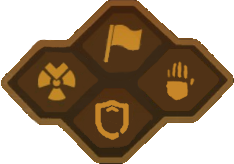
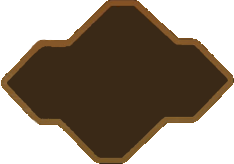
seperating buttons

diff --git a/dxhacking/js/createIcons.js b/dxhacking/js/createIcons.js
@@ -11,20 +11,85 @@ function showControls() {
     var y = event.clientY;
     if (!document.getElementById("hackingControls")) {
         var hackingControls = document.createElement('IMG');
+        var hackingBtnCapture = document.createElement("INPUT");
+        var hackingBtnDefend = document.createElement("INPUT");
+        var hackingBtnNuke = document.createElement("INPUT");
+        var hackingBtnStop = document.createElement("INPUT");
+
         hackingControls.setAttribute("style", "position:absolute;");
         hackingControls.setAttribute("src", "images/hackingControls.png");
         hackingControls.setAttribute("id", "hackingControls");
+
+        hackingBtnCapture.setAttribute("type", "image");
+        hackingBtnCapture.setAttribute("src", "images/hackingBtnCapture.png");
+        hackingBtnCapture.setAttribute("style", "position:absolute;");
+        hackingBtnCapture.setAttribute("id", "hackingBtnCapture");
+        hackingBtnCapture.setAttribute("onmouseover", "hackingBtnCapture");
+
+        hackingBtnDefend.setAttribute("type", "image");
+        hackingBtnDefend.setAttribute("src", "images/hackingBtnDefend.png");
+        hackingBtnDefend.setAttribute("style", "position:absolute;");
+        hackingBtnDefend.setAttribute("id", "hackingBtnDefend");
+        hackingBtnDefend.setAttribute("onmouseover", "hackingBtnCapture");
+
+        hackingBtnNuke.setAttribute("type", "image");
+        hackingBtnNuke.setAttribute("src", "images/hackingBtnNuke.png");
+        hackingBtnNuke.setAttribute("style", "position:absolute;");
+        hackingBtnNuke.setAttribute("id", "hackingBtnNuke");
+        hackingBtnNuke.setAttribute("onmouseover", "hackingBtnCapture");
+
+        hackingBtnStop.setAttribute("type", "image");
+        hackingBtnStop.setAttribute("src", "images/hackingBtnStop.png");
+        hackingBtnStop.setAttribute("style", "position:absolute;");
+        hackingBtnStop.setAttribute("id", "hackingBtnStop");
+        hackingBtnStop.setAttribute("onmouseover", "hackingBtnCapture");
+
+        document.body.appendChild(hackingBtnCapture);
+        document.body.appendChild(hackingBtnDefend);
+        document.body.appendChild(hackingBtnNuke);
+        document.body.appendChild(hackingBtnStop);
+
         document.body.appendChild(hackingControls);
-        hackingControls.style.top = y + 'px';
-        hackingControls.style.left = (x + 20) + 'px';
+
+        hackingControls.style.top = (y - 80) + 'px';
+        hackingControls.style.left = (x + 40) + 'px';
+
+        hackingBtnCapture.style.top = (y - 80) + 'px';
+        hackingBtnCapture.style.left = (x + 40) + 'px';
+
+        hackingBtnDefend.style.top = (y - 80) + 'px';
+        hackingBtnDefend.style.left = (x + 40) + 'px';
+
+        hackingBtnNuke.style.top = (y - 80) + 'px';
+        hackingBtnNuke.style.left = (x + 40) + 'px';
+
+        hackingBtnStop.style.top = (y - 80) + 'px';
+        hackingBtnStop.style.left = (x + 40) + 'px';
+
     } else {
-        document.getElementById("hackingControls").style.top = y + 'px';
+        document.getElementById("hackingControls").style.top = (y - 80) + 'px';
         document.getElementById("hackingControls").style.left = (x + 20) + 'px';
+
+        document.getElementById("hackingBtnCapture").style.top = (y - 80) + 'px';
+        document.getElementById("hackingBtnCapture").style.left = (x + 20) + 'px';
+
+        document.getElementById("hackingBtnDefend").style.top = (y - 80) + 'px';
+        document.getElementById("hackingBtnDefend").style.left = (x + 20) + 'px';
+
+        document.getElementById("hackingBtnNuke").style.top = (y - 80) + 'px';
+        document.getElementById("hackingBtnNuke").style.left = (x + 20) + 'px';
+
+        document.getElementById("hackingBtnStop").style.top = (y - 80) + 'px';
+        document.getElementById("hackingBtnStop").style.left = (x + 20) + 'px';
     }
 }
 
 function removeControls() {
     $("#hackingControls").remove();
+    $("#hackingBtnCapture").remove();
+    $("#hackingBtnDefend").remove();
+    $("#hackingBtnNuke").remove();
+    $("#hackingBtnStop").remove();
 }
 
 
